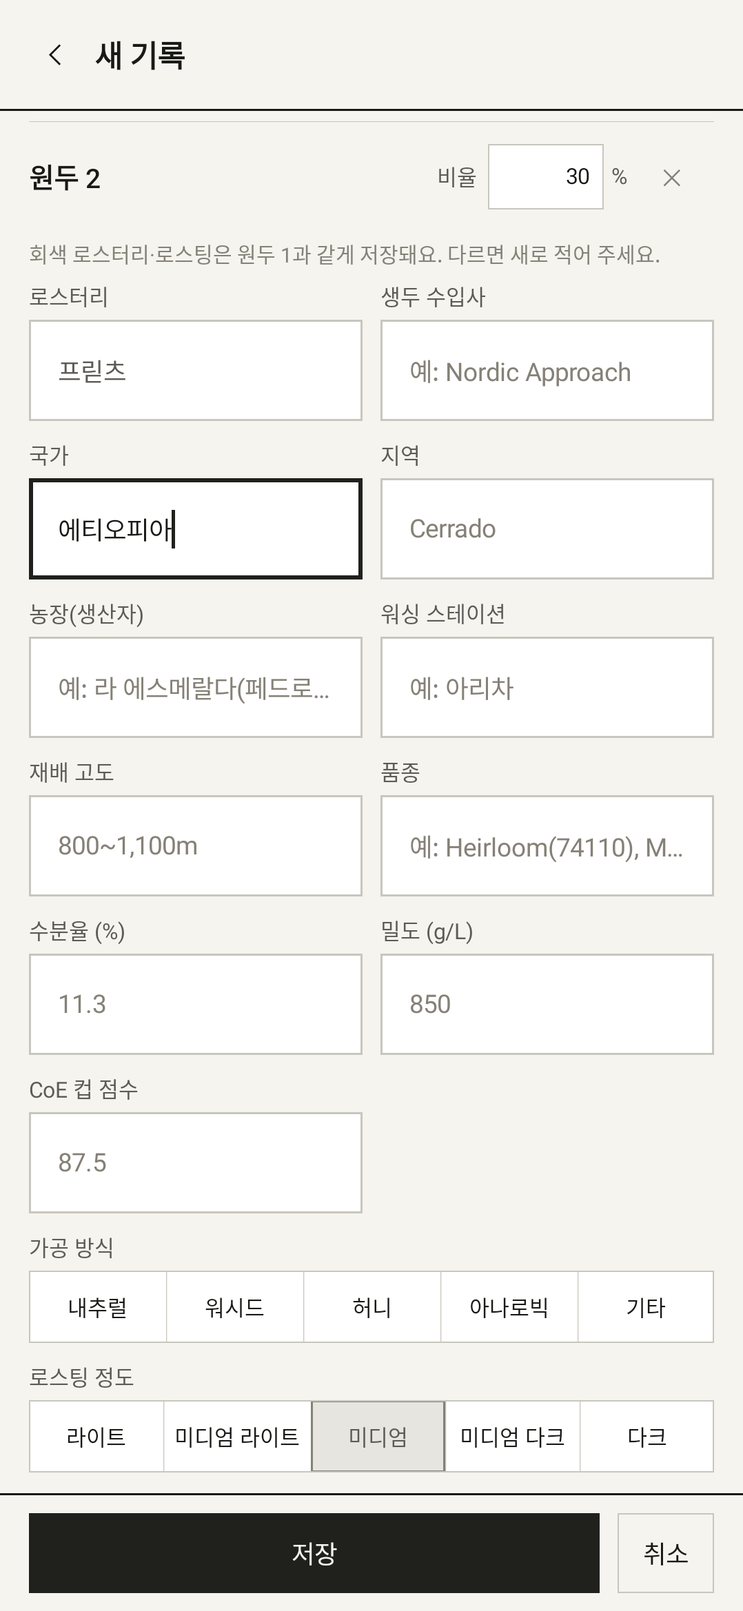
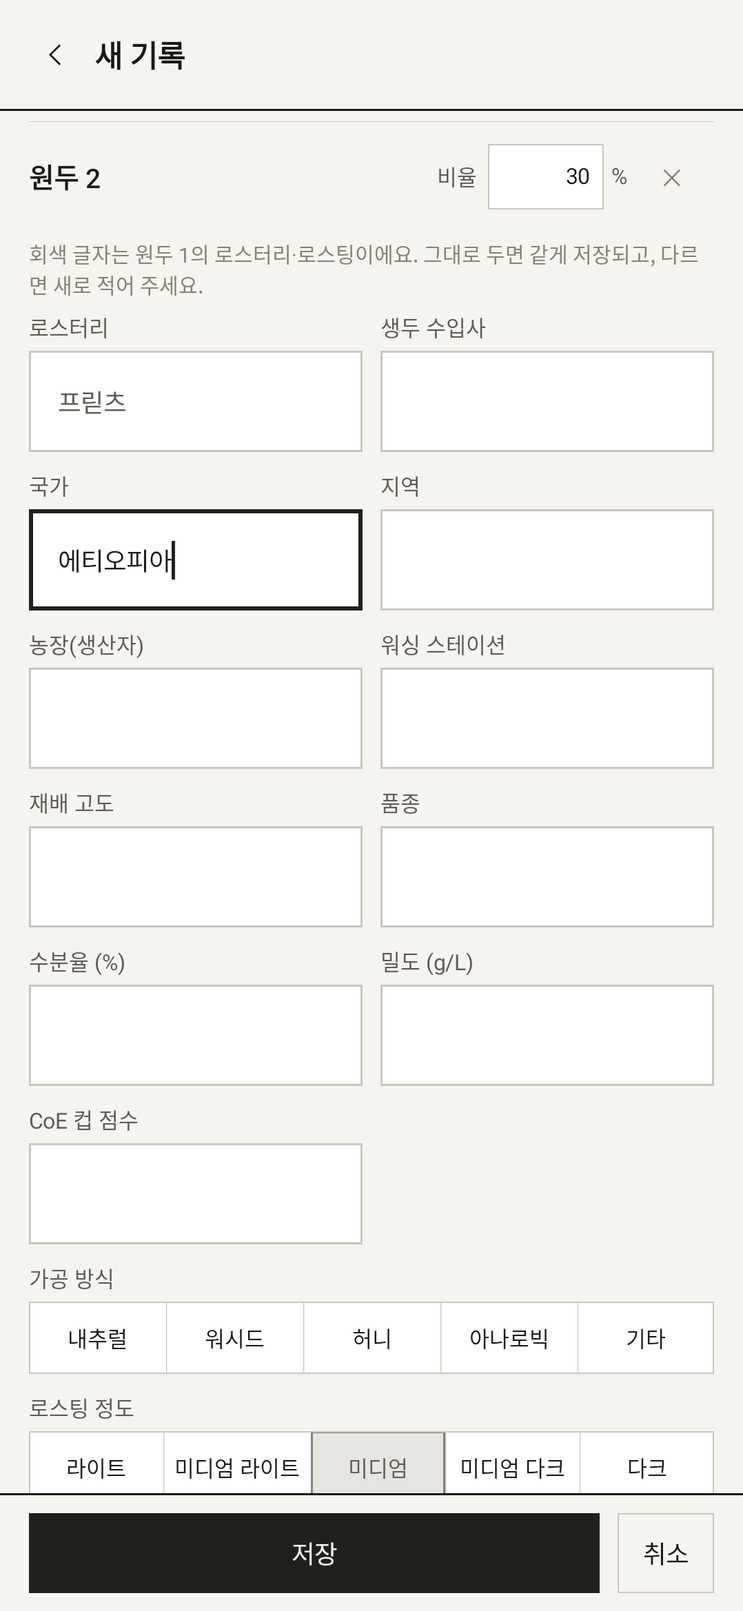
Blend beans: no example placeholders in later bean blocks
In bean 2 and on, bean 1's inherited roastery showed in the same grey as
the example placeholders around it ("Cerrado", "11.3", …), so an
inherited value could not be told from an example. Later blocks now show
no examples at all: the only grey text there is what the bean takes
over from bean 1 (로스터리, 로스팅 날짜, and the muted 로스팅 정도 chip);
the process sub-type/other fields get a label instead. Bean 1 keeps its
placeholders. The hint says what the grey means, the flow test finds
later-bean fields by their block, and screenshot 81 is re-recorded.

Claude-Session: https://claude.ai/code/session_018QYnCDu2vDaVkATiKmJbxB

diff --git a/shared/src/commonMain/kotlin/com/coffeejournal/ui/form/sections/BeanInfoSection.kt b/shared/src/commonMain/kotlin/com/coffeejournal/ui/form/sections/BeanInfoSection.kt
@@ -1,5 +1,6 @@
 package com.coffeejournal.ui.form.sections
 
+import androidx.compose.foundation.layout.Column
 import androidx.compose.foundation.layout.Row
 import androidx.compose.foundation.layout.Spacer
 import androidx.compose.foundation.layout.fillMaxWidth
@@ -88,16 +89,23 @@ internal fun BeanInfoSection(state: FormState, suggestions: FormSuggestions, upd
     )
 }
 
-/** What a field shows in grey while it is empty: bean 1's value in a later bean ([fromFirst]), else the usual example. */
+/**
+ * What a field shows in grey while it is empty: in bean 1 the usual example; in a later bean only bean 1's value where
+ * it takes it over ([fromFirst]), so the grey there always is a value that will be saved, never an example.
+ */
 private class Grey(val text: String, val fromFirst: Boolean)
 
-private fun grey(index: Int, own: String, firstValue: String, example: String): Grey =
-    if (index > 0 && own.isBlank() && firstValue.isNotBlank()) Grey(firstValue, true) else Grey(example, false)
+private fun grey(index: Int, own: String, firstValue: String, example: String): Grey = when {
+    index == 0 -> Grey(example, false)
+    own.isBlank() && firstValue.isNotBlank() -> Grey(firstValue, true)
+    else -> Grey("", false)
+}
 
 /**
  * One bean's fields; the same block for every bean of a blend. With two or more it has a head ("원두 2 · 비율 %",
  * ✕ on the later ones). A later bean's 로스터리, 로스팅 정도 and 로스팅 날짜 show bean 1's in grey until it gets its
  * own (like the brew timer's estimated grams): typing replaces the grey value, emptying the field takes bean 1's again.
+ * A later bean shows no example placeholders, so nothing grey there could be taken for a value it would get.
  */
 @Composable
 private fun BeanBlock(
@@ -110,6 +118,22 @@ private fun BeanBlock(
     change: ((BeanForm) -> BeanForm) -> Unit,
     onRemove: () -> Unit,
 ) {
+    // the block as one node, so a later bean's fields can be told apart (tests)
+    Column(Modifier.fillMaxWidth().testTag("bean-$index")) { BeanBlockFields(bean, index, count, first, isCafe, suggestions, change, onRemove) }
+}
+
+@Composable
+private fun BeanBlockFields(
+    bean: BeanForm,
+    index: Int,
+    count: Int,
+    first: BeanForm,
+    isCafe: Boolean,
+    suggestions: FormSuggestions,
+    change: ((BeanForm) -> BeanForm) -> Unit,
+    onRemove: () -> Unit,
+) {
+    fun example(text: String): String = if (index == 0) text else ""
     if (count > 1) BeanBlockHead(bean, index, first, change, onRemove)
     val roastery = grey(index, bean.roastery, first.roastery, "예: 커피정경")
     TwoUp(
@@ -119,26 +143,26 @@ private fun BeanBlock(
                 placeholder = roastery.text, placeholderColor = if (roastery.fromFirst) Ink.textMuted else Ink.textFaint,
             )
         },
-        { m -> AutocompleteField(bean.selection, { v -> change { it.copy(selection = v) } }, suggestions.selections, m, label = "생두 수입사", placeholder = "예: Nordic Approach") },
+        { m -> AutocompleteField(bean.selection, { v -> change { it.copy(selection = v) } }, suggestions.selections, m, label = "생두 수입사", placeholder = example("예: Nordic Approach")) },
     )
     TwoUp(
-        { m -> FormTextField(bean.country, { v -> change { it.copy(country = v) } }, m, label = "국가", placeholder = "브라질") },
-        { m -> AutocompleteField(bean.region, { v -> change { it.copy(region = v) } }, regionOptions(bean.country), m, label = "지역", placeholder = "Cerrado") },
+        { m -> FormTextField(bean.country, { v -> change { it.copy(country = v) } }, m, label = "국가", placeholder = example("브라질")) },
+        { m -> AutocompleteField(bean.region, { v -> change { it.copy(region = v) } }, regionOptions(bean.country), m, label = "지역", placeholder = example("Cerrado")) },
     )
     TwoUp(
-        { m -> AutocompleteField(bean.farmProducer, { v -> change { it.copy(farmProducer = v) } }, suggestions.farms, m, label = "농장(생산자)", placeholder = "예: 라 에스메랄다(페드로 가족)") },
-        { m -> FormTextField(bean.washingStation, { v -> change { it.copy(washingStation = v) } }, m, label = "워싱 스테이션", placeholder = "예: 아리차") },
+        { m -> AutocompleteField(bean.farmProducer, { v -> change { it.copy(farmProducer = v) } }, suggestions.farms, m, label = "농장(생산자)", placeholder = example("예: 라 에스메랄다(페드로 가족)")) },
+        { m -> FormTextField(bean.washingStation, { v -> change { it.copy(washingStation = v) } }, m, label = "워싱 스테이션", placeholder = example("예: 아리차")) },
     )
     TwoUp(
-        { m -> FormTextField(bean.altitude, { v -> change { it.copy(altitude = v) } }, m, label = "재배 고도", placeholder = "800~1,100m") },
-        { m -> FormTextField(bean.variety, { v -> change { it.copy(variety = v) } }, m, label = "품종", placeholder = "예: Heirloom(74110), Mundo Novo") },
+        { m -> FormTextField(bean.altitude, { v -> change { it.copy(altitude = v) } }, m, label = "재배 고도", placeholder = example("800~1,100m")) },
+        { m -> FormTextField(bean.variety, { v -> change { it.copy(variety = v) } }, m, label = "품종", placeholder = example("예: Heirloom(74110), Mundo Novo")) },
     )
     if (!isCafe) {
         TwoUp(
-            { m -> FormTextField(bean.moisture, { v -> change { it.copy(moisture = v) } }, m, label = "수분율 (%)", placeholder = "11.3", keyboardType = KeyboardType.Decimal, inputFilter = InputFilters::decimal) },
-            { m -> FormTextField(bean.density, { v -> change { it.copy(density = v) } }, m, label = "밀도 (g/L)", placeholder = "850", keyboardType = KeyboardType.Number, inputFilter = InputFilters::decimal) },
+            { m -> FormTextField(bean.moisture, { v -> change { it.copy(moisture = v) } }, m, label = "수분율 (%)", placeholder = example("11.3"), keyboardType = KeyboardType.Decimal, inputFilter = InputFilters::decimal) },
+            { m -> FormTextField(bean.density, { v -> change { it.copy(density = v) } }, m, label = "밀도 (g/L)", placeholder = example("850"), keyboardType = KeyboardType.Number, inputFilter = InputFilters::decimal) },
         )
-        TwoUp({ m -> FormTextField(bean.score, { v -> change { it.copy(score = v) } }, m, label = "CoE 컵 점수", placeholder = "87.5", keyboardType = KeyboardType.Decimal, inputFilter = InputFilters::decimal) })
+        TwoUp({ m -> FormTextField(bean.score, { v -> change { it.copy(score = v) } }, m, label = "CoE 컵 점수", placeholder = example("87.5"), keyboardType = KeyboardType.Decimal, inputFilter = InputFilters::decimal) })
     }
     ProcessAndRoast(bean, index, first, change)
     if (!isCafe) {
@@ -160,7 +184,7 @@ private fun BeanBlockHead(bean: BeanForm, index: Int, first: BeanForm, change: (
         Text("원두 ${index + 1}", style = AppType.cardTitle, modifier = Modifier.weight(1f))
         Text("비율", style = AppType.fieldLabel, modifier = Modifier.padding(end = 6.dp))
         CompactField(
-            value = bean.percent, onValueChange = { v -> change { it.copy(percent = v) } }, placeholder = "%",
+            value = bean.percent, onValueChange = { v -> change { it.copy(percent = v) } }, placeholder = if (index == 0) "%" else "",
             keyboardType = KeyboardType.Decimal, inputFilter = InputFilters::decimal, textAlign = TextAlign.End,
             modifier = Modifier.width(64.dp.fontScaled()),
         )
@@ -168,7 +192,7 @@ private fun BeanBlockHead(bean: BeanForm, index: Int, first: BeanForm, change: (
         if (index > 0) RemoveButton(onClick = onRemove, label = "원두 ${index + 1} 삭제") else Spacer(Modifier.width(8.dp))
     }
     if (index > 0 && listOf(first.roastery, first.roast, first.roastDate).any { it.isNotBlank() }) {
-        HintText("회색 로스터리·로스팅은 원두 1과 같게 저장돼요. 다르면 새로 적어 주세요.", Modifier.padding(bottom = 6.dp))
+        HintText("회색 글자는 원두 1의 로스터리·로스팅이에요. 그대로 두면 같게 저장되고, 다르면 새로 적어 주세요.", Modifier.padding(bottom = 6.dp))
     }
 }
 
@@ -180,12 +204,15 @@ private fun ProcessAndRoast(bean: BeanForm, index: Int, first: BeanForm, change:
             options = Processes.formSegments, value = bean.process,
             onChange = { v -> change { it.copy(process = v, processSub = if (v != it.process) "" else it.processSub) } },
         )
+        // a later bean has no examples: its field says what it is in a label instead
         if (bean.process == FormMapper.PROCESS_OTHER) {
             Spacer(Modifier.height(8.dp))
-            FormTextField(bean.processOther, { v -> change { it.copy(processOther = v) } }, placeholder = "예: 카보닉 마세레이션, 웻헐드 등")
+            if (index == 0) FormTextField(bean.processOther, { v -> change { it.copy(processOther = v) } }, placeholder = "예: 카보닉 마세레이션, 웻헐드 등")
+            else FormTextField(bean.processOther, { v -> change { it.copy(processOther = v) } }, label = "기타 가공 방식")
         } else if (bean.process in Processes.mainSegments) {
             Spacer(Modifier.height(8.dp))
-            FormTextField(bean.processSub, { v -> change { it.copy(processSub = v) } }, placeholder = "세부 종류 (선택, 예: 드래곤 아이, 더블 퍼멘티드)")
+            if (index == 0) FormTextField(bean.processSub, { v -> change { it.copy(processSub = v) } }, placeholder = "세부 종류 (선택, 예: 드래곤 아이, 더블 퍼멘티드)")
+            else FormTextField(bean.processSub, { v -> change { it.copy(processSub = v) } }, label = "세부 종류 (선택)")
         }
     }
     FieldBlock {

diff --git a/androidApp/src/test/kotlin/com/coffeejournal/android/BlendBeansFlowTest.kt b/androidApp/src/test/kotlin/com/coffeejournal/android/BlendBeansFlowTest.kt
@@ -8,6 +8,7 @@ import androidx.compose.ui.test.hasContentDescription
 import androidx.compose.ui.test.hasSetTextAction
 import androidx.compose.ui.test.hasTestTag
 import androidx.compose.ui.test.hasText
+import androidx.compose.ui.test.performScrollTo
 import androidx.compose.ui.test.performTextInput
 import androidx.compose.ui.test.performTextReplacement
 import androidx.test.ext.junit.runners.AndroidJUnit4
@@ -36,6 +37,16 @@ class BlendBeansFlowTest : CoverageFlowBase() {
     /** Bean [i]'s share field, in its block head. */
     private fun percentField(i: Int) = hasSetTextAction() and hasAnyAncestor(hasTestTag("bean-block-$i"))
 
+    /** The text fields of a later bean's block in screen order (it shows no placeholders to find them by). */
+    private val laterBeanFields = listOf("비율", "로스터리", "생두 수입사", "국가", "지역", "농장(생산자)", "워싱 스테이션", "재배 고도", "품종", "수분율", "밀도", "CoE")
+
+    private fun typeInBean(i: Int, field: String, text: String) {
+        val n = node(hasSetTextAction() and hasAnyAncestor(hasTestTag("bean-$i")), laterBeanFields.indexOf(field))
+        n.performScrollTo()
+        n.performTextInput(text)
+        settle(1)
+    }
+
     /** Text inside bean [i]'s group of the detail. */
     private fun inBeanGroup(i: Int, text: String) = hasText(text) and hasAnyAncestor(hasTestTag("blend-bean-$i"))
 
@@ -52,7 +63,8 @@ class BlendBeansFlowTest : CoverageFlowBase() {
         waitFor(hasTestTag("bean-block-1"))
         // the same fields again, and the segment says what the record now is
         assertTrue(has(button("카페 블렌드")) && !has(button("단일 원두")))
-        assertEquals(2, count(field("Cerrado")))
+        assertEquals("a later bean shows no examples", 1, count(field("Cerrado")))
+        assertEquals(1, count(field("800~1,100m")))
         assertEquals("bean 2 shows bean 1's roastery in grey", 2, count(field("프릳츠 테스트")))
         assertTrue("and its roast", has(button("미디엄") and inheritedRoast))
         node(percentField(0)).performTextInput("60")
@@ -63,8 +75,8 @@ class BlendBeansFlowTest : CoverageFlowBase() {
         node(percentField(1)).performTextReplacement("40")
         waitFor(sumTag and hasText("합계 100%"))
         waitGone(hasText("비율을 더하면 100%가 아니에요. 모르는 비율이 있으면 그대로 저장해도 괜찮아요."))
-        typeInto("브라질", "에티오피아")
-        typeInto("Cerrado", "Yirgacheffe", index = 1)
+        typeInBean(1, "국가", "에티오피아")
+        typeInBean(1, "지역", "Yirgacheffe")
         clickNode(button("워시드"), 1)
 
         saveForm("하우스 블렌드 테스트")

diff --git a/androidApp/src/test/kotlin/com/coffeejournal/android/RouteScreenshotTest.kt b/androidApp/src/test/kotlin/com/coffeejournal/android/RouteScreenshotTest.kt
@@ -406,8 +406,8 @@ class RouteScreenshotTest {
     }
 
     /**
-     * A café blend: "+ 원두 추가 (블렌드)" gave bean 2 the same block; its 로스터리 and 로스팅 show bean 1's in grey, and
-     * the shares add up to 90% (the gentle hint).
+     * A café blend: "+ 원두 추가 (블렌드)" gave bean 2 the same block, without example placeholders; its 로스터리 and
+     * 로스팅 show bean 1's in grey, and the shares add up to 90% (the gentle hint).
      */
     @Test fun recordForm_cafeBlend() = show(Route.RecordForm(mode = FormMode.EXTRACT), "81-form-cafe-blend.png") {
         type("예: 콜롬비아 라 플라타 게이샤 워시드", "하우스 블렌드")
@@ -417,7 +417,8 @@ class RouteScreenshotTest {
         click("+ 원두 추가 (블렌드)")
         compose.onAllNodes(hasSetTextAction() and hasAnyAncestor(hasTestTag("bean-block-0")))[0].performTextInput("60")
         compose.onAllNodes(hasSetTextAction() and hasAnyAncestor(hasTestTag("bean-block-1")))[0].performTextInput("30")
-        type("브라질", "에티오피아")
+        // bean 2's 국가 (its block shows no example placeholders): 비율, 로스터리, 생두 수입사, 국가
+        compose.onAllNodes(hasSetTextAction() and hasAnyAncestor(hasTestTag("bean-1")))[3].performScrollTo().performTextInput("에티오피아")
         settle()
         bringToTop(hasTestTag("bean-block-1"))
     }

diff --git a/docs/android-app-design.md b/docs/android-app-design.md
@@ -82,7 +82,7 @@
 27. 상세 지도(2차 설계 §1.7, 하이브리드): SGIS 지도는 오프라인 기본 지도로 그대로 두고, 도로·하천·건물·지명이 보이는 OpenStreetMap 지도(`Route.DetailMap`)를 더했다. 시·도/시·군·구 지도의 "상세 지도" 버튼(보이는 범위로 맞춤)이나 로스터리·카페 패널의 "상세 지도에서 보기"(그 핀으로, 선택된 채)로 열고, 위치 지정에서는 "상세 지도에서 정확히"로 가운데 십자를 맞춰 "이 위치로 지정". 타일은 OpenFreeMap(키 없음, OpenMapTiles 스키마)에서 보이는 지역만 받고, 지도 위에 "© OpenMapTiles © OpenStreetMap contributors"를 항상 표시한다. 네트워크가 없거나 렌더러가 실패하면 안내와 "한국 지도로 돌아가기". 웹에는 없는 기능이고, 앱이 네트워크를 쓰는 유일한 곳이다.
 28. 설정(웹에는 없음, 사용자 요청): 각 탭 머리글의 작은 톱니바퀴(44dp 터치, TalkBack "설정")로 여는 `Route.Settings` 한 페이지. 하단 탭은 네 개 그대로. 화면 절: 글꼴(고딕 `FontFamily.Default` / 명조 `FontFamily.Serif`), 제목·숫자 글꼴(고정폭 / 본문과 같게), 글자 크기(0.9 / 1 / 1.15 / 1.3배: `LocalDensity`의 fontScale에 곱해 플랫폼 변환(Android 14+ 비선형)을 그대로 따름), 화면 전환(NavHost 페이드 0 / 200 / 400 / 700 ms, 기본 400 ms; Navigation 기본 700 ms가 느리게 흐려 보인다는 요청), 미리보기 카드. 이어서 알림 절(이전 알림 설정 화면의 내용), 정보 절(출처 · 오픈소스 라이선스 →). 값은 `device.display.*` 키(백업 제외)이고, 앱은 저장된 값을 읽기 전까지 배경만 그려 기본 글꼴이 먼저 보였다가 바뀌지 않게 한다. 글꼴은 기기 글꼴만 쓰므로(번들·다운로드 없음) 명조 한글 글꼴이 없는 기기에서는 한글이 고딕으로 보인다(Robolectric 렌더에도 CJK 명조가 없어 스크린샷의 한글은 고딕).
 29. AI 노트 도우미(웹에는 없음, 사용자 요청 2026-09-26; `docs/ai-note-helper-plan.md` 12장): 노트 상세의 "✦ 출처로 알아보기"(모드 A, 노트 설명)와 기록 폼 "내가 느낀 노트" 옆의 "✦ AI에게 묻기"(모드 B, 맛 묘사 → 앱의 휠 용어·노트 분류 후보; 고른 후보는 폼 목적지의 SavedStateHandle로 돌아가 중복 없이 붙는다)가 `Route.NoteHelper`를 연다. 방식은 설정에서 고른다: Gemini 무료 + Tavily(기본: Gemini가 질문을 짧은 영어 검색어 하나로 바꾸고(JSON, 실패하면 고정 틀), Tavily가 찾은 결과(검색마다 최대 5개, 모두 최대 15개; 설정 "검색": 기본 = basic 1크레딧, 정밀 = advanced 2크레딧(기본값), 정밀+기본 = 같은 검색어를 basic 다음 advanced 3크레딧; "사람들 의견" 켬(기본값) = 한국어 검색어로 네이버 블로그·티스토리·브런치·네이버 카페만 basic 한 번 더(+1크레딧), 결과는 맨 뒤, 질문에 "사람들의 느낌" 줄, 실패하면 본 결과로 답하고 안내)를 번호를 붙여 Gemini에 넘기고, Gemini가 붙인 [n]을 앱이 해석하며, 인용된 표현을 그 페이지 원문과 대조해 "✓ 원문 확인"/"원문에서 찾지 못함"), Gemini + Google 검색(결제한 프로젝트만; 그라운딩 메타데이터로 번호를 붙이고 Google 검색 제안을 함께 보임), GPT(OpenAI Responses 웹 검색, url_citation), Claude(Anthropic Messages 웹 검색, 인용 블록 끝에 번호, cited_text로 ✓). 답 아래에는 보낸 검색어를 모두("검색어: …") 보이고, Tavily 방식은 화면 안 입력칸에서 영어 검색어를 고쳐 다시 물을 수 있다. 답의 글은 고치지 않고 번호만 붙이며, 출처와 연결되지 않은 문장은 지우지 않고 회색으로 보인다. 출처와 연결된 문장이 하나도 없으면 답 대신 "출처를 찾지 못했어요". 앱·저장소·CI 빌드에는 키가 없다: 사용자가 설정에서 자기 키를 붙여 넣고(마지막 4자리만 표시, 키 확인, 지우기), 키는 Android Keystore의 내보낼 수 없는 AES-256/GCM 키로 암호화해 `noBackupFilesDir/ai-keys`에만 둔다(DB·JSON 백업·클라우드 백업 제외). 방식·모델·안내 확인·검색 설정은 `device.ai.*` 키. 방식마다 처음 물을 때 무엇을(질문 글만) 어디로 보내는지 확인을 받는다. HTTP는 `HttpURLConnection`(새 의존성 없음). 답과 출처는 화면을 닫으면 남지 않는다(기록·캐시 없음). 폼의 묘사 입력은 대화상자 대신 노트 칸 아래 패널이다(대화상자 속 입력칸은 Robolectric 흐름 테스트에서 Compose가 idle이 되지 않음).
-30. 원두 정보의 블렌드(사용자 요청 2026-09-28: "원두 정보에 블랜드를 위해 %나 추가가 가능하게", "블렌드를 선택하는 게 아니라 원두 정보 적는 란은 똑같이 두 배로 생기게 하는 거지? + 같은 걸로", "로스터리나 로스팅은 … 한번 적으면 나머지도 회색으로 채워지게, 그러나 내가 추가로 또 다시 적을 수 있게"): 원두 정보는 원두 한 알마다 같은 블록(로스터리·생두 수입사·국가·지역·농장·워싱 스테이션·고도·품종·(원두만) 수분율·밀도·CoE·가공 방식·로스팅 정도·(원두만) 로스팅 날짜)이고, 블록 아래 "+ 원두 추가 (블렌드)"가 빈 블록을 하나 더 만든다. 블록이 둘 이상이면 카페 블렌드(`commercialBlend`)이고 블록마다 "원두 N · 비율 [ ]% · ✕"가 붙으며, ✕로 하나만 남기면 다시 단일 원두다. 원두 구성 세그는 "단일 원두 | 직접 블렌드"(블록이 둘 이상이면 첫 칸이 "카페 블렌드")로, 카페 블렌드를 따로 고르는 칸은 없앴다. 원두 2부터의 로스터리·로스팅 정도·로스팅 날짜는 비워 두면 원두 1의 값을 회색으로 보여 주고 그대로 저장되며(타이머 어림 물량과 같은 옅은 미리 채움, 로스팅 세그는 옅은 테두리 칸), 적으면 그 원두의 값이 된다. 비율 합계("합계 100%")가 100이 아니면 부드러운 안내만 하고 저장은 막지 않는다. 총량·입고 시기·예상 노트·가게 설명·봉투 사진·이름·가격은 블렌드에 한 번. 저장: 원두 1은 기록의 기존 필드(단일 원두와 같은 자리)이고, `blendComponents`에 원두 1을 포함한 모든 블록(원두별 필드 + `percent`, 비워 둔 로스터리·로스팅은 빈 값 = 원두 1과 같음)을 둔다(Room 스키마 변경 없음). 표시·통계는 `BlendBeans.beans`로 값을 풀어 쓴다. 기록 상세는 원두마다 작은 묶음("원두 1 · 브라질 Cerrado · 60%"), 블렌드 뷰 카드는 "브라질 Cerrado 60%" 줄, 같은 원두를 다시 기록하면 첫 등록의 블록이 모두 돌아온다. 커피 지도(국가·산지·농장)·품종·가공 뷰와 그 상세, 통계의 산지·가공·품종 순위, 농장·품종 등 자동 등록은 블렌드의 원두를 하나씩 센다(`BeanRecords.flatten(…, blendBeans = true)`); 노트·배전도·로스터리·수입사·Competition Lots·검색·통계의 로스터리 순위는 기록 하나로(원두 1) 센다. 직접 블렌드(내 원두를 g으로 섞기)는 그대로이고 행마다 무게 비율(합이 100이 되게 반올림한 정수 %)을 보여 준다.
+30. 원두 정보의 블렌드(사용자 요청 2026-09-28: "원두 정보에 블랜드를 위해 %나 추가가 가능하게", "블렌드를 선택하는 게 아니라 원두 정보 적는 란은 똑같이 두 배로 생기게 하는 거지? + 같은 걸로", "로스터리나 로스팅은 … 한번 적으면 나머지도 회색으로 채워지게, 그러나 내가 추가로 또 다시 적을 수 있게"): 원두 정보는 원두 한 알마다 같은 블록(로스터리·생두 수입사·국가·지역·농장·워싱 스테이션·고도·품종·(원두만) 수분율·밀도·CoE·가공 방식·로스팅 정도·(원두만) 로스팅 날짜)이고, 블록 아래 "+ 원두 추가 (블렌드)"가 빈 블록을 하나 더 만든다. 블록이 둘 이상이면 카페 블렌드(`commercialBlend`)이고 블록마다 "원두 N · 비율 [ ]% · ✕"가 붙으며, ✕로 하나만 남기면 다시 단일 원두다. 원두 구성 세그는 "단일 원두 | 직접 블렌드"(블록이 둘 이상이면 첫 칸이 "카페 블렌드")로, 카페 블렌드를 따로 고르는 칸은 없앴다. 원두 2부터의 로스터리·로스팅 정도·로스팅 날짜는 비워 두면 원두 1의 값을 회색으로 보여 주고 그대로 저장되며(타이머 어림 물량과 같은 옅은 미리 채움, 로스팅 세그는 옅은 테두리 칸), 적으면 그 원두의 값이 된다. 원두 2부터의 블록에는 예시 자리표시("Cerrado", "11.3" 등)를 두지 않아, 그 블록의 회색 글자는 늘 원두 1에서 물려받아 저장될 값이다(가공 세부·기타 칸은 자리표시 대신 라벨). 비율 합계("합계 100%")가 100이 아니면 부드러운 안내만 하고 저장은 막지 않는다. 총량·입고 시기·예상 노트·가게 설명·봉투 사진·이름·가격은 블렌드에 한 번. 저장: 원두 1은 기록의 기존 필드(단일 원두와 같은 자리)이고, `blendComponents`에 원두 1을 포함한 모든 블록(원두별 필드 + `percent`, 비워 둔 로스터리·로스팅은 빈 값 = 원두 1과 같음)을 둔다(Room 스키마 변경 없음). 표시·통계는 `BlendBeans.beans`로 값을 풀어 쓴다. 기록 상세는 원두마다 작은 묶음("원두 1 · 브라질 Cerrado · 60%"), 블렌드 뷰 카드는 "브라질 Cerrado 60%" 줄, 같은 원두를 다시 기록하면 첫 등록의 블록이 모두 돌아온다. 커피 지도(국가·산지·농장)·품종·가공 뷰와 그 상세, 통계의 산지·가공·품종 순위, 농장·품종 등 자동 등록은 블렌드의 원두를 하나씩 센다(`BeanRecords.flatten(…, blendBeans = true)`); 노트·배전도·로스터리·수입사·Competition Lots·검색·통계의 로스터리 순위는 기록 하나로(원두 1) 센다. 직접 블렌드(내 원두를 g으로 섞기)는 그대로이고 행마다 무게 비율(합이 100이 되게 반올림한 정수 %)을 보여 준다.
 31. 카페 기록과 집 추출 기록의 입력 차이(사용자 요청 2026-09-28: "카페 등록인데 레시피는 기본으로 닫혀있어도 괜찮을 것 같고 알려주시면 넣을 수 있게 펼치는 걸로"): 카페 기록의 레시피(드리퍼·필터·분쇄도·원두량·물량·물 온도·총 추출시간·사용한 물·추출 단계 로그와 타이머)는 "레시피 입력 (카페에서 알려준 경우)" 한 줄로 접혀 있고 누르면 펼친다(계산기·추출 예시는 집 추출에만). 레시피가 있는 카페 기록을 고칠 때는 펼쳐진 채 열린다. 한 번 펼친 레시피는 다시 접어도 값이 남고 저장되며, 펼친 적 없는 카페 기록은 레시피 값을 저장하지 않는다(예전에는 드리퍼·필터만 보이고 저장). 집 추출 기록은 레시피를 늘 보여 준다.
 
 ---
